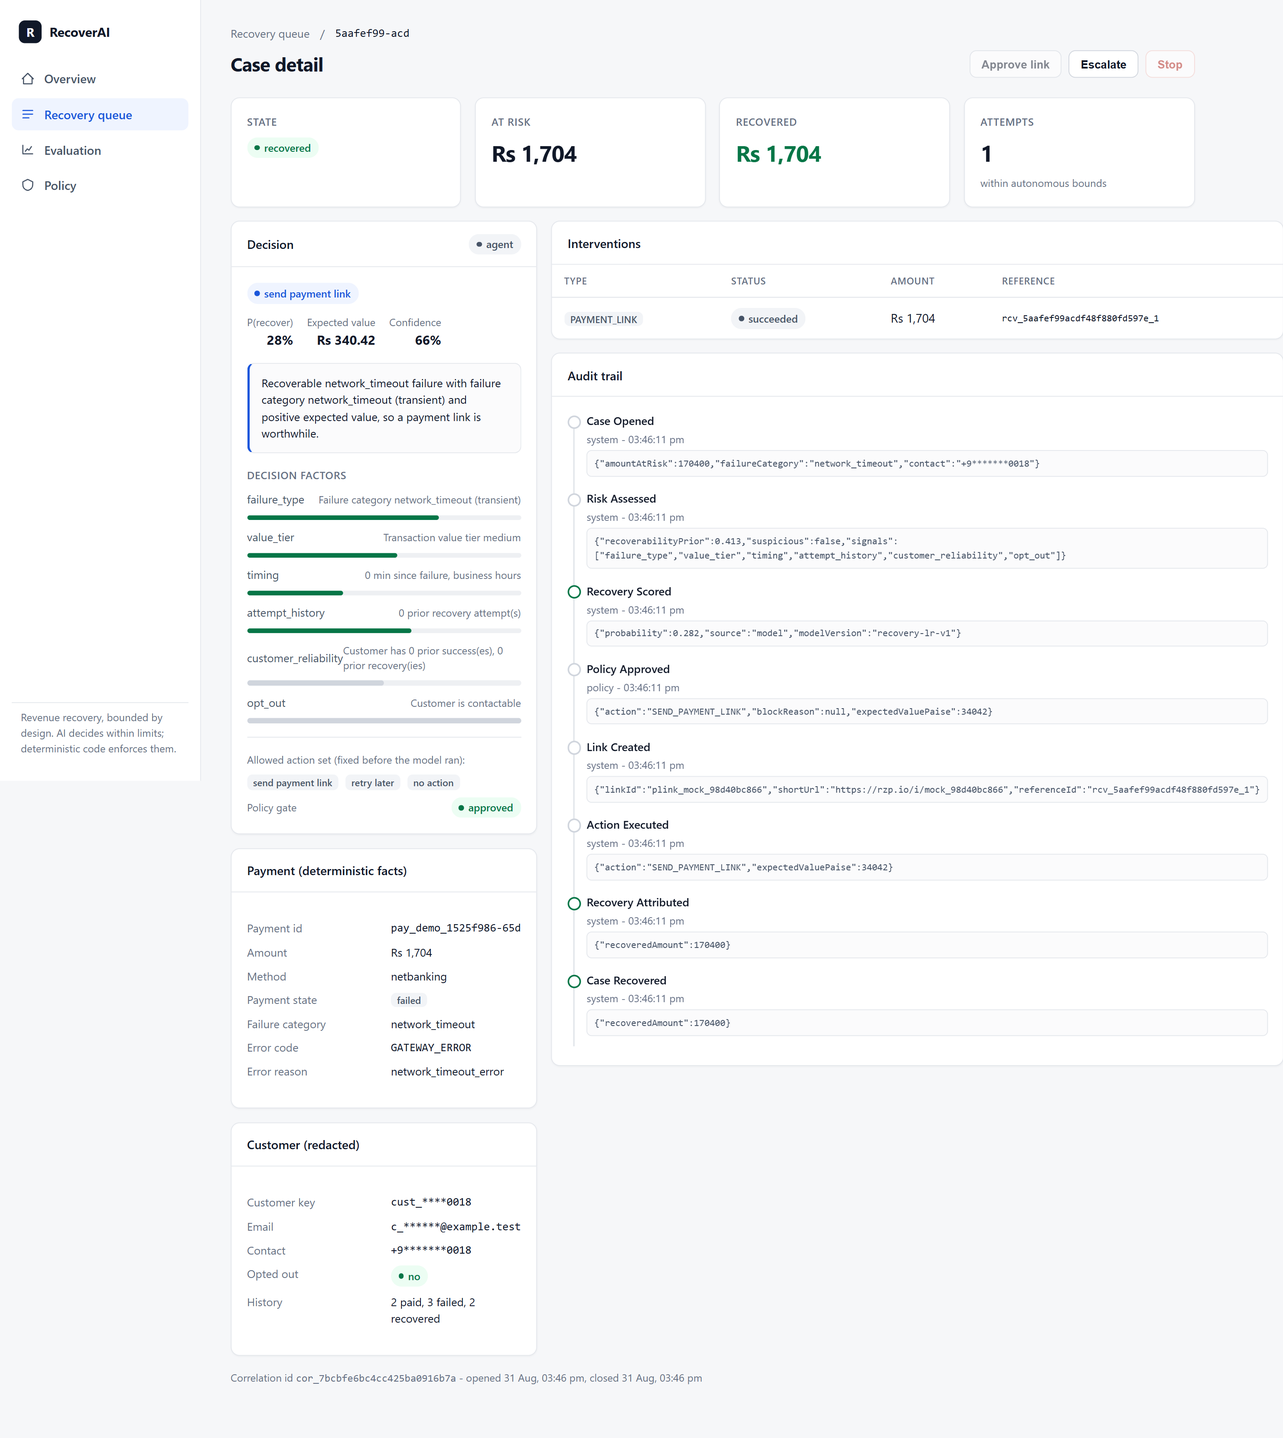
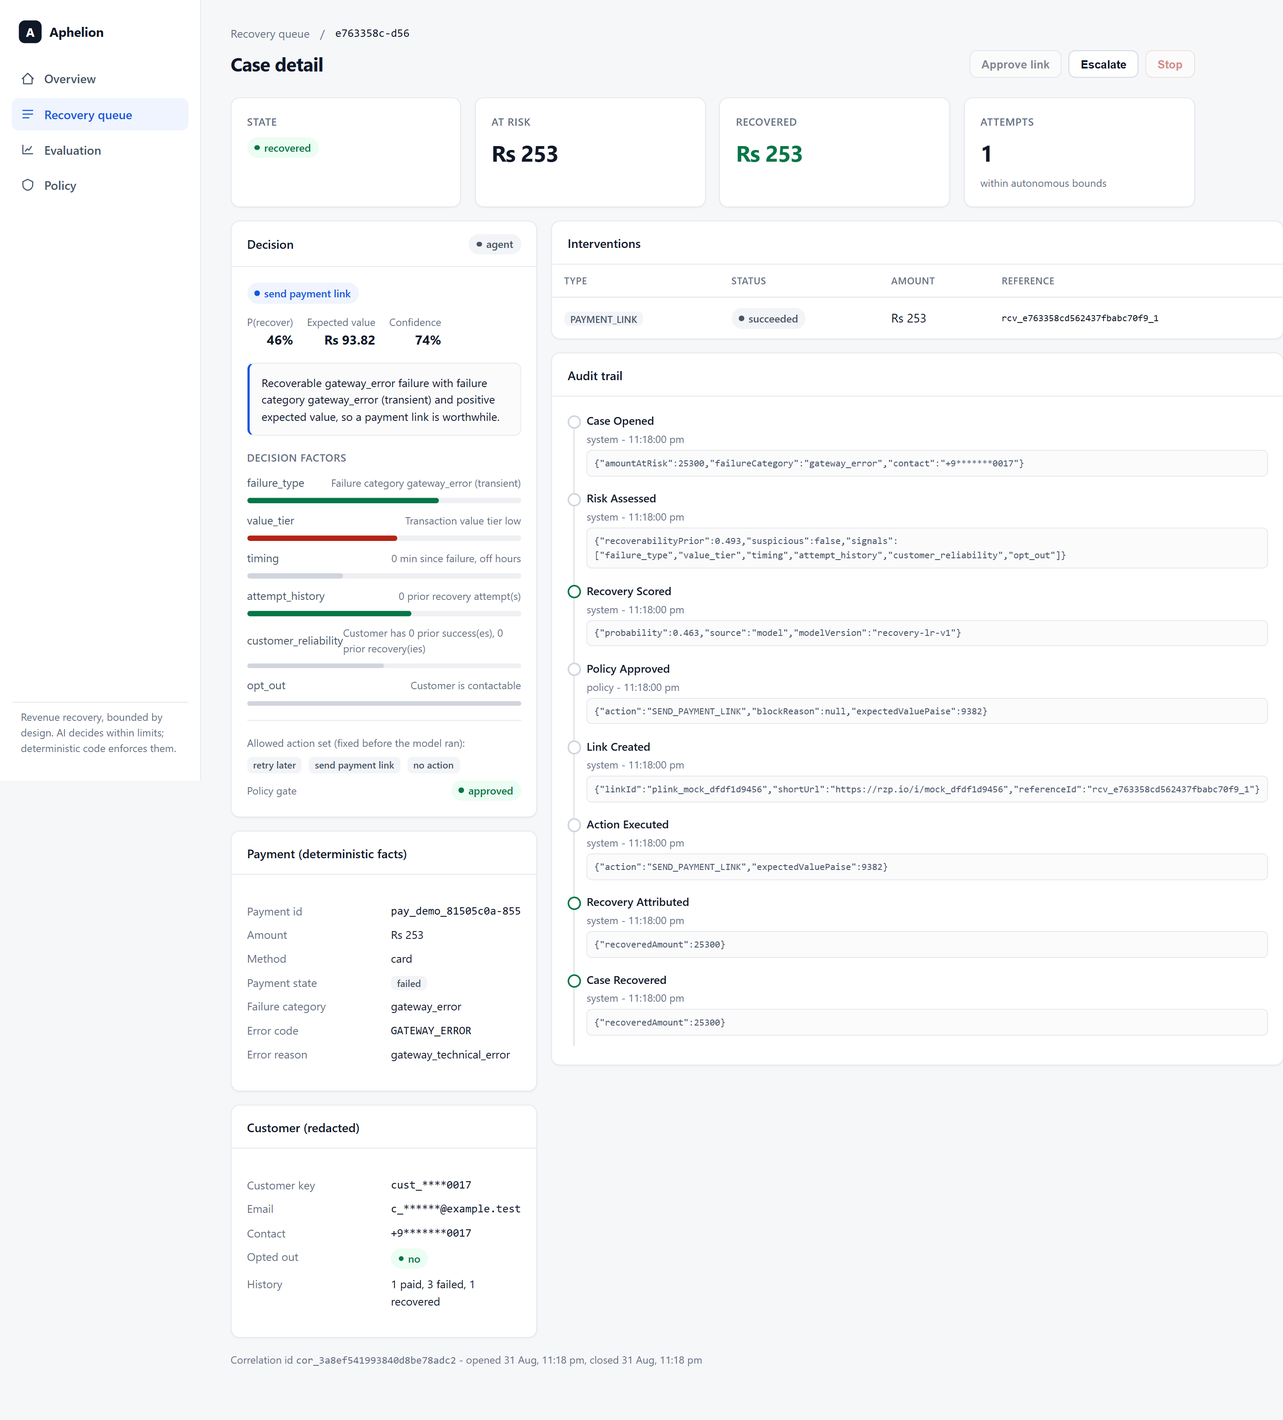
add demo and application notes, sync docs and screenshots

diff --git a/README.md b/README.md
@@ -1,8 +1,8 @@
-# RecoverAI
+# Project Aphelion
 
 AI-assisted revenue recovery for failed payments, built for the Razorpay AI Buildathon (AI Revenue Recovery track).
 
-RecoverAI turns a failed payment into a bounded recovery workflow: it detects revenue at risk, diagnoses the failure, scores the chance of recovery with a calibrated model, chooses one action from a fixed set through an AI reasoning step that can never exceed its bounds, executes it (a Razorpay Payment Link where appropriate), and attributes the recovered rupees when the customer pays. Every step is auditable, and the AI has no authority over money movement.
+Project Aphelion turns a failed payment into a bounded recovery workflow: it detects revenue at risk, diagnoses the failure, scores the chance of recovery with a calibrated model, chooses one action from a fixed set through an AI reasoning step that can never exceed its bounds, executes it (a Razorpay Payment Link where appropriate), and attributes the recovered rupees when the customer pays. Every step is auditable, and the AI has no authority over money movement.
 
 The one idea behind the whole system:
 
@@ -12,7 +12,7 @@ The one idea behind the whole system:
 
 When a payment fails, the customer usually still wants to buy. That revenue is not lost, it is at risk. Recovering it well is a targeting problem: contacting every failed payment wastes money and goodwill, contacting none leaves revenue on the table, and contacting the wrong ones annoys good customers. It also has to be safe: no contacting opted-out customers, no acting on fraud-flagged payments, no unbounded autonomy over customer communication or money.
 
-RecoverAI treats this as what it is: a bounded, measurable, auditable decision problem where AI helps with judgment but never holds the pen on money.
+Project Aphelion treats this as what it is: a bounded, measurable, auditable decision problem where AI helps with judgment but never holds the pen on money.
 
 ## The closed loop
 
@@ -48,7 +48,7 @@ An operations dashboard sits over the API: an overview of revenue at risk and re
 
 ## Where AI is used, and where it is deliberately not
 
-RecoverAI is intentionally layered so that facts and money stay deterministic and the LLM only reasons within a set of choices it did not create.
+Project Aphelion is intentionally layered so that facts and money stay deterministic and the LLM only reasons within a set of choices it did not create.
 
 | Concern | How it is handled |
 | --- | --- |
@@ -83,7 +83,7 @@ The AI can only ever narrow its own authority, never widen it. This is enforced 
 
 ## Razorpay integration
 
-RecoverAI implements the real Razorpay contracts and runs in two modes:
+Project Aphelion implements the real Razorpay contracts and runs in two modes:
 
 - `RAZORPAY_MODE=razorpay_test`: the real integration path. It verifies webhook signatures (`X-Razorpay-Signature`, HMAC-SHA256 over the raw body) and creates Payment Links via `POST /v1/payment_links/` with Basic auth. This is Razorpay Test Mode: no live customer money is involved.
 - `RAZORPAY_MODE=mock` (default): a deterministic in-process double that creates the same Payment Link objects without any network call. Used for tests, evaluation, and the local demo.
@@ -96,15 +96,15 @@ References used: [webhook validation](https://razorpay.com/docs/webhooks/validat
 
 Full detail and generation in [EVALUATION.md](EVALUATION.md) (generated by `npm run eval`). This is a Synthetic evaluation: it measures targeting and decision quality in a reproducible environment, not live money. Headline results on a held-out test split (customer-group split, seed 42):
 
-- Recovery probability model: ROC-AUC about 0.70, PR-AUC about 0.61 against a base rate of about 0.38, calibration error (ECE) about 0.05.
-- Targeting precision: the cases the model ranks in the top 10 percent by recovery probability convert at about 73 percent, roughly 1.9 times the base rate. The model finds the payers.
-- Value: RecoverAI recovers essentially the same revenue as contacting every failed payment, using about a quarter fewer contacts, at a higher recovered-per-contact, while contact-everyone also contacts opted-out and fraud-flagged customers that RecoverAI excludes.
+- Recovery probability model: ROC-AUC about 0.70, PR-AUC about 0.62 against a base rate of about 0.38, calibration error (ECE) about 0.05.
+- Targeting precision: the cases the model ranks in the top 10 percent by recovery probability convert at about 76 percent, about twice the base rate. The model finds the payers.
+- Value: Project Aphelion recovers essentially the same revenue as contacting every failed payment, using about a quarter fewer contacts, at a higher recovered-per-contact, while contact-everyone also contacts opted-out and fraud-flagged customers that Project Aphelion excludes.
 - Ablation: the calibrated model drives targeting quality over a rules baseline. The bounded LLM does not change the business numbers (an honest finding); its value is validity, safety, and explainability.
 - Agent safety on the batch: 100 percent valid decisions, 0 policy violations, 100 percent rejection of an adversarial model that tried to act outside the allowed set, 100 percent fallback on malformed model output, injected instructions never changed the action.
 
 ## Failure handling
 
-RecoverAI is built to fail safely. Covered and tested:
+Project Aphelion is built to fail safely. Covered and tested:
 
 - duplicate webhook, and duplicate event id: processed once (unique event id, at-least-once idempotency)
 - out-of-order events: a stale failure never downgrades a captured payment; a capture attributes recovery
@@ -144,7 +144,7 @@ With Postgres and Docker (optional):
 
 ```bash
 docker compose up -d db
-DATABASE_URL=postgres://postgres:postgres@localhost:5432/recoverai DB_DRIVER=postgres npm run migrate -w @recoverai/api
+DATABASE_URL=postgres://postgres:postgres@localhost:5432/aphelion DB_DRIVER=postgres npm run migrate -w @aphelion/api
 DATABASE_URL=... DB_DRIVER=postgres npm run dev
 ```
 
@@ -161,11 +161,21 @@ RAZORPAY_WEBHOOK_SECRET=xxx
 ```
 
 3. Point the Razorpay webhook at `POST https://<your-host>/webhooks/razorpay` and subscribe to `payment.failed`, `payment.captured`, and `payment_link.paid`.
-4. Trigger a test failed payment. RecoverAI opens a case, decides, and creates a real test Payment Link. Never uses live credentials or real money.
+4. Trigger a test failed payment. Project Aphelion opens a case, decides, and creates a real test Payment Link. Never uses live credentials or real money.
+
+Live Test Mode validation status: the integration path and the signature and payload contracts are implemented and unit tested, but a full end-to-end run against live Razorpay Test Mode is pending merchant test credentials and has not been performed here. The default `mock` mode exercises the identical pipeline offline.
 
 ## Configuration
 
-See [.env.example](.env.example). Key variables: `DB_DRIVER`, `DATABASE_URL`, `RAZORPAY_MODE`, `RAZORPAY_KEY_ID`, `RAZORPAY_KEY_SECRET`, `RAZORPAY_WEBHOOK_SECRET`, `LLM_PROVIDER` (`mock` or `gemini`), `GEMINI_API_KEY`, `INTERVENTION_COST_PAISE`. Secrets come from the environment only and are never logged.
+See [.env.example](.env.example). Key variables: `DB_DRIVER`, `DATABASE_URL`, `RAZORPAY_MODE`, `RAZORPAY_KEY_ID`, `RAZORPAY_KEY_SECRET`, `RAZORPAY_WEBHOOK_SECRET`, `LLM_PROVIDER` (`mock` or `gemini`), `GEMINI_API_KEY`, `INTERVENTION_COST_PAISE`, and the `RATE_LIMIT_*` limits. Secrets come from the environment only and are never logged.
+
+## Documentation
+
+- [DEMO.md](DEMO.md): a deterministic 5-minute walkthrough of the full loop.
+- [APPLICATION_NOTES.md](APPLICATION_NOTES.md): what this is, what is real versus synthetic, and the engineering highlights.
+- [ARCHITECTURE.md](ARCHITECTURE.md): layers, event flow, state machines, and the real failure story.
+- [SECURITY.md](SECURITY.md): trust boundaries, bounded autonomy, and the safety model.
+- [EVALUATION.md](EVALUATION.md): held-out results, baselines, and the ablation (generated by `npm run eval`).
 
 ## Tech stack
 

diff --git a/APPLICATION_NOTES.md b/APPLICATION_NOTES.md
@@ -1,0 +1,60 @@
+# Project Aphelion - application notes
+
+Submission for the Razorpay AI Buildathon, AI Revenue Recovery track.
+
+## What it is, in one paragraph
+
+Project Aphelion is a closed-loop revenue-recovery system for failed payments. A failure arrives over a Razorpay webhook; the system diagnoses it, scores the probability of recovery with a calibrated model, computes a bounded set of allowed actions, lets an LLM choose one and explain it, re-checks that choice through a deterministic policy gate, creates a Razorpay Payment Link where warranted, and attributes recovered rupees only when a real payment confirms. Every step is auditable, and the AI has no authority over money.
+
+## Why it fits the track
+
+Revenue recovery is a targeting and safety problem, not a chatbot problem. Contacting every failed payment wastes money and goodwill; contacting none leaves revenue on the table; contacting the wrong ones annoys good customers and risks acting on fraud. Project Aphelion treats it as what it is: a bounded, measurable, auditable decision problem where AI helps with judgment but never holds the pen on money.
+
+## The core thesis
+
+> AI decides within boundaries. Deterministic code enforces the boundaries.
+
+The control path is always `deterministic facts -> risk and policy -> bounded AI reasoning -> deterministic gate -> action -> verification`, and never `LLM -> arbitrary API -> money`. The LLM only ever selects from an action set fixed before it runs, and returns a strict JSON object with no amounts or probabilities it could fabricate. Money math, payment state, idempotency, signature checks, policy limits, and recovered-amount attribution are all deterministic.
+
+## What is real, and what is simulated (stated plainly)
+
+- Razorpay integration is real code: HMAC-SHA256 webhook verification over the raw body, and Payment Links via `POST /v1/payment_links/`. It runs in `razorpay_test` (Razorpay Test Mode, no live money) or a deterministic `mock` mode that needs no credentials.
+- Live Test Mode end-to-end validation is pending merchant test credentials. The integration path and the signature and payload contracts are implemented and unit tested; a full run against live test payments has not been performed here because no credentials are configured. This is stated rather than fabricated.
+- The evaluation is a Synthetic evaluation, labelled as such throughout. Relative comparisons (policy versus policy, component versus component) are meaningful; the absolute rates are not market numbers.
+
+## Engineering highlights
+
+- Deterministic policy gate independent of the AI, re-checked on every action (opt-out, fraud, already-paid, attempts, cooldown, daily budget, value bounds).
+- From-scratch calibrated logistic regression in TypeScript, so training and evaluation run in one reproducible toolchain (no Python dependency). Training is deterministic: identical weights and metrics every run.
+- Held-out, leak-free evaluation with a customer-group split, baselines (no-action, contact-all, rules, ML-only), a budgeted targeting curve, an ablation, and an agent-safety section. Regenerated by `npm run eval`; the dashboard and README read the same numbers.
+- Reliability: idempotent webhooks (atomic event-id claim), an explicit payment and case state machine, per-payment serialization in the worker so concurrent deliveries cannot interleave, and safe failure modes throughout.
+- Prompt-injection defense by construction: the allowed action set is fixed before the model runs, untrusted text is delimited data, and output is schema-validated with a deterministic fallback.
+- Ports-and-adapters persistence (Postgres and in-memory), validated against a real Postgres. HTTP hardening: raw-body signature parsing, body limit, request timeout, security headers, per-IP rate limiting.
+- Operations dashboard (overview, recovery queue, case detail with decision factors and audit timeline, evaluation, editable policy) with loading, empty, and error states and a responsive layout.
+- 56 tests (unit, integration, security, HTTP end to end), plus lint, typecheck, build, and a CI workflow. Docker Compose brings up Postgres and the API.
+
+## Metrics snapshot (Synthetic evaluation, held-out, seed 42)
+
+- Recovery model: ROC-AUC about 0.70, PR-AUC about 0.62, ECE about 0.05, base rate about 0.38.
+- Targeting: the top 10 percent by score convert at about 76 percent, roughly twice the base rate.
+- Value: recovers about 99 percent of the revenue that contacting everyone would, with about a quarter fewer and safer contacts.
+- Agent safety: 100 percent valid decisions, 0 policy violations, unsafe actions rejected, injection ignored, deterministic fallback on a broken model.
+
+Honest ablation: the calibrated model drives targeting quality. The bounded LLM does not change the business numbers; its value is validity, safety, and explanation. This is reported rather than hidden.
+
+## A real failure found during development
+
+An out-of-order integration test caught a bug where a `payment.captured` arriving before a `payment.failed` for the same id was dropped, so a later stale failure created the payment as failed. Fixed by making capture upsert-create as captured; the state machine then rejects the stale downgrade. A regression test guards it. Full write-up in [ARCHITECTURE.md](ARCHITECTURE.md#a-real-failure-and-the-fix).
+
+## Honest limitations
+
+- The evaluation is synthetic; absolute rates are not market numbers.
+- Live Razorpay Test Mode end-to-end has not been measured (needs test credentials).
+- The worker is in-process; horizontal scale needs a durable queue (the seam is isolated).
+- Single-merchant tenancy in the demo, though the data model supports multiple merchants.
+
+## Where to look
+
+- [README.md](README.md) explains the project in under a minute.
+- [DEMO.md](DEMO.md) is a deterministic 5-minute walkthrough.
+- [ARCHITECTURE.md](ARCHITECTURE.md), [SECURITY.md](SECURITY.md), [EVALUATION.md](EVALUATION.md) go deep.

diff --git a/DEMO.md b/DEMO.md
@@ -1,0 +1,90 @@
+# Project Aphelion demo (5 minutes)
+
+A deterministic walkthrough of the full revenue-recovery loop: a failed payment becomes a diagnosed, scored, bounded, audited recovery. Everything runs offline (mock Razorpay, mock LLM), so it works every time with no credentials.
+
+## Setup (once)
+
+Requirements: Node 20 or newer.
+
+```bash
+npm install
+npm run train        # fit the recovery model (deterministic, seed 42)
+```
+
+Start the API and the dashboard in two shells:
+
+```bash
+DB_DRIVER=memory RAZORPAY_MODE=mock LLM_PROVIDER=mock npm run dev
+```
+
+```bash
+npm run dev:web      # dashboard on http://localhost:4100
+```
+
+Open http://localhost:4100.
+
+## The 5-minute script
+
+### 0:00 - Seed a batch (failed payments arrive)
+
+On the Overview page, click **Seed 40 cases**. This drives 40 synthetic failed payments through the real pipeline. The KPI row fills in: revenue at risk, revenue recovered, recovery rate, recovered per contact.
+
+Talking point: each failed payment is revenue at risk, not revenue lost. The system decides which to act on.
+
+### 0:45 - Revenue risk and the pipeline
+
+Point at the KPIs and the Case pipeline panel: cases are spread across recovered, link created, escalated, stopped, and no action. Nothing was contacted blindly.
+
+### 1:15 - Open one recovered case
+
+Go to **Recovery queue**, filter to **recovered**, and open a case whose decision is `send payment link`. This is the core of the demo. On the case detail page, read top to bottom:
+
+1. Payment (deterministic facts): the provider payment id, amount, method, failure category, error code. These are facts, never invented.
+2. Decision: the action chosen, P(recover), expected value, and a plain-language reason. The source badge shows the bounded AI agent picked it.
+3. Decision factors: the signals that drove the score (failure type, value tier, timing, history).
+4. Allowed action set: the fixed set the AI had to choose from, computed before the model ran.
+5. Policy gate: approved. The deterministic gate re-checked the choice.
+
+### 2:30 - Recovery and the audit trail
+
+Still on the case: the Interventions table shows the Razorpay Payment Link that was created, and the case reached `recovered` when the payment confirmed. The Audit trail on the right lists every step with a timestamp and actor (system, agent, policy), tied to one correlation id.
+
+Talking point: the recovered rupees are attributed only from a confirmed payment, and only once.
+
+### 3:15 - Evaluation (held-out, honest)
+
+Open the **Evaluation** page (labelled Synthetic evaluation). Point at:
+
+- Model quality: ROC-AUC about 0.70, calibration error about 0.05, with a reliability chart.
+- Targeting precision: the top 10 percent by score convert far above the base rate. The model finds the payers.
+- Policy comparison: Project Aphelion recovers essentially the same revenue as contacting everyone, with fewer and safer contacts.
+- Agent safety: 100 percent valid decisions, 0 policy violations, unsafe actions rejected, injection ignored.
+
+### 4:00 - A failure scenario, handled
+
+Back on the Overview page, click one of the scenario buttons. Each is deterministic:
+
+- **Out of order**: a capture arrives before a stale failure. The payment stays captured and no recovery contact is made.
+- **Unsafe model**: the model returns an action outside the allowed set. The boundary guard rejects it and the safe deterministic action is used.
+- **AI down**: the model is unavailable. The deterministic engine still produces a safe decision.
+
+Open the affected case and show the audit trail recording the safe outcome.
+
+### 4:45 - Close
+
+One line: AI decides within boundaries, deterministic code enforces the boundaries. Every rupee recovered is measured and every decision is auditable.
+
+## Terminal-only alternative
+
+No dashboard needed:
+
+```bash
+npm run seed         # seed a batch and print a recovery summary
+npm run demo         # run all five scenarios and print what each proves
+```
+
+## Notes
+
+- The scenario outcomes are deterministic. The seeded batch uses a fresh random seed each run, so exact counts vary, but the shape (some recovered, some escalated, some stopped) is always the same.
+- The held-out evaluation is fully reproducible: `npm run eval` regenerates the same numbers from seed 42.
+- Nothing here touches live Razorpay or real money. The real Test Mode path is implemented; see the README for enabling it with test credentials.

diff --git a/SECURITY.md b/SECURITY.md
@@ -1,6 +1,6 @@
 # Security Model
 
-RecoverAI acts autonomously on payments, so its security model is the product, not an afterthought. The governing rule is:
+Project Aphelion acts autonomously on payments, so its security model is the product, not an afterthought. The governing rule is:
 
 > AI decides within boundaries. Deterministic code enforces the boundaries.
 
@@ -22,7 +22,7 @@ Razorpay webhooks are authenticated with HMAC-SHA256 over the exact raw request 
 
 ## 3. Idempotency and replay
 
-Razorpay delivers at least once and can retry. Every event carries `X-Razorpay-Event-Id`, which is claimed against a unique constraint before processing. A duplicate delivery is acknowledged with 200 but not processed twice. Because payment state transitions are also guarded by an explicit state machine, a replayed or out-of-order event cannot corrupt state (for example a stale `payment.failed` cannot downgrade a `captured` payment). This double protection (dedup plus state machine) is deliberate.
+Razorpay delivers at least once and can retry. Every event carries `X-Razorpay-Event-Id`, which is claimed against a unique constraint before processing (an atomic `INSERT ... ON CONFLICT DO NOTHING` in Postgres). A duplicate delivery is acknowledged with 200 but not processed twice. Events for the same payment are serialized in the worker (keyed by payment id) so two deliveries for one payment cannot interleave their read-modify-write on the case. Because payment state transitions are also guarded by an explicit state machine, a replayed or out-of-order event cannot corrupt state (for example a stale `payment.failed` cannot downgrade a `captured` payment). This layered protection (dedup, per-payment serialization, state machine) is deliberate.
 
 ## 4. Bounded autonomy: the core control
 
@@ -62,6 +62,7 @@ Money is stored and computed as integer paise; there is no floating point in any
 - If the LLM or the model is unavailable, the deterministic engine still produces a safe decision.
 - If a Payment Link creation fails, the error is recorded and the case stays recoverable; nothing crashes and no money state is left inconsistent.
 - Graceful shutdown drains in-flight work on `SIGTERM`.
+- Request limits: a 256 KB body cap, a 20 second request timeout, and a fixed-window per-IP rate limiter (a generous ceiling for the webhook, a tighter one for the unauthenticated demo and API routes) protect against floods. Health checks are exempt.
 
 ## 10. What is explicitly out of scope for autonomy
 

diff --git a/ARCHITECTURE.md b/ARCHITECTURE.md
@@ -1,4 +1,4 @@
-# RecoverAI Architecture
+# Project Aphelion Architecture
 
 ## 1. Problem
 
@@ -128,7 +128,7 @@ See [SECURITY.md](SECURITY.md). In short: signature verification, event idempote
 
 ## 13. Failure recovery
 
-The system fails safe. If the model is down, the deterministic engine acts. If a payment link fails to create, the case stays recoverable. If a duplicate or stale event arrives, it is deduped or rejected by state. If the process restarts, persisted events and case state make the situation inspectable and recoverable.
+The system fails safe. If the model is down, the deterministic engine acts. If a payment link fails to create, the case stays recoverable. If a duplicate or stale event arrives, it is deduped or rejected by state. Events for one payment are serialized in the worker (keyed by payment id), so concurrent deliveries for the same payment cannot interleave their writes to the case. If the process restarts, persisted events and case state make the situation inspectable and recoverable.
 
 ## A real failure and the fix
 
@@ -152,7 +152,7 @@ Single Node service plus PostgreSQL. `docker compose up` starts Postgres; migrat
 
 ## 16. Tradeoffs
 
-- In-process worker instead of a durable queue: simpler for V1, isolated behind one seam so it can be replaced.
+- In-process worker instead of a durable queue: simpler for V1, isolated behind one seam so it can be replaced. It serializes work per payment id today; a durable queue would keep the same ordering guarantee across instances.
 - A logistic regression instead of a heavier model: it is calibrated, fast, fully reproducible in the same toolchain, and good enough that the honest story is targeting quality, not model complexity.
 - The LLM does not change the business numbers. That is reported plainly rather than hidden. Its value is validity, safety, and explanation.
 
